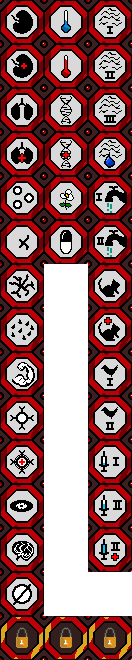
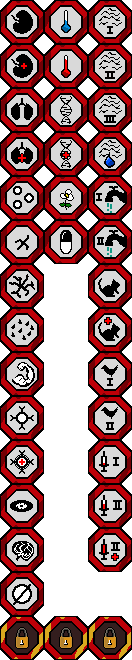
infos menu

diff --git a/src/display_engine.c b/src/display_engine.c
@@ -4,7 +4,6 @@
 #include "mutation_engine.h"
 #include "display_engine.h"
 
-
 void display_background(const int background)
 {
     /**
@@ -13,11 +12,11 @@ void display_background(const int background)
      * 3 - info menu
      * 4 - grid
      * 5 - display message
-     * 6 - upgrade menu
      **/
 
     extern const bopti_image_t img_map;
     extern const bopti_image_t img_message;
+    extern const bopti_image_t img_infos;
     extern const bopti_image_t img_grid;
 
     switch(background) {
@@ -27,14 +26,13 @@ void display_background(const int background)
         case 2:
             break;
         case 3:
+            dimage(0, 0, &img_infos);
             break;
         case 4:
             dimage(0, 0, &img_grid);
             break;
         case 5:
             dimage(0, 0, &img_message);
-            break;
-        case 6:
             break;
     }
 }
@@ -89,7 +87,7 @@ void display_foreground(const int background, const struct game *current_game, c
 
             break;
 
-        case 3:
+        case 2:
             drect(mutation_menu + 31 * (mutation_menu - 1), 0, mutation_menu + 31 * (mutation_menu) - 1, 7, C_INVERT);
 
             dprint(102, 37, C_BLACK, "%d", current_game->dna);
@@ -121,7 +119,18 @@ void display_mutation(const int table[4][8], const struct cursor c, const int mu
 
     dclear(C_WHITE);
     display_background(4);
-    dprint(106,14,C_WHITE,"test menu");
+    switch(mutation_menu) {
+        case 1:
+            dprint(138,14,C_WHITE, "SYMPTOMES");
+            break;
+        case 2:
+            dprint(138,14,C_WHITE, "CAPACITES");
+            break;
+        case 3:
+            dprint(117,14,C_WHITE, "TRANSMISSION");
+            break;
+    }
+    
     for (int i = 0 ; i < 4 ; i++)
     {
         for (int j = 0 ; j < 8; j++)
@@ -146,17 +155,23 @@ void display_mutation_buy(const struct cursor c, const int mutation_menu, const 
     dclear(C_WHITE);
     
     display_background(3);
-    dsubimage(3, 21, &img_mutations, 44 * (mutation_menu - 1), 44 * (id - 1), 44, 44, DIMAGE_NONE);
+    dsubimage(28, 91, &img_mutations, 44 * (mutation_menu - 1), 44 * (id - 1), 44, 44, DIMAGE_NONE);
 
-    dprint(47, 25, C_BLACK, mutation_data->name);
-    if (!current_game->mutations_bought[mutation_menu - 1][id - 1]) dprint(81, 33, C_BLACK, "%d", mutation_data->dna);
-    else dprint(81, 33, C_BLACK, "ACHETEE");
-    dprint(81, 41, C_BLACK, "%d (%d)", mutation_data->contagion, mutation_data->contagion - mutation_sel->contagion);
-    dprint(81, 49, C_BLACK, "%d (%d)", mutation_data->severity, mutation_data->severity - mutation_sel->severity);
-    dprint(81, 57, C_BLACK, "%d (%d)", mutation_data->lethality, mutation_data->lethality - mutation_sel->lethality);
+    dprint(105, 85, C_BLACK, "NOM : %s", mutation_data->name);
+    if (!current_game->mutations_bought[mutation_menu - 1][id - 1]) dprint(150, 180, C_RGB(123, 8, 8), "COUT ADN : %d", mutation_data->dna);
+    else dprint(195, 180, C_RGB(123, 8, 8), "ACHETEE");
+    dprint(105, 105, C_BLACK, "CONTAGION : %d (%d)", mutation_data->contagion, mutation_data->contagion - mutation_sel->contagion);
+    dprint(105, 125, C_BLACK, "SEVERITE  : %d (%d)", mutation_data->severity, mutation_data->severity - mutation_sel->severity);
+    dprint(105, 145, C_BLACK, "LETALITE  : %d (%d)", mutation_data->lethality, mutation_data->lethality - mutation_sel->lethality);
 
-    if (button_selected) drect(81, 2, 123, 8, C_INVERT);
-    else drect(81, 12, 123, 18, C_INVERT);
+    if (button_selected) {
+        drect(294, 8, 298, 26, C_WHITE);
+        drect(294, 30, 391, 26, C_WHITE);
+    }
+    else {
+        drect(294, 36, 298, 51, C_WHITE);
+        drect(294, 55, 391, 51, C_WHITE);
+    }
 
     dupdate();
 }
@@ -170,7 +185,7 @@ void display_mutation_description(const char *name, const char *description, con
 
     dclear(C_WHITE);
 
-    display_background(6);
+    display_background(3);
     dsubimage(3, 21, &img_mutations, 44 * (mutation_menu - 1), 44 * (id - 1), 44, 44, DIMAGE_NONE);
     dprint(47, 25, C_BLACK, name);
     
@@ -197,13 +212,13 @@ void display_message(char *msg)
     display_background(5);
     for (int i = 0; i < 5; i ++)
     {
-        dtext_opt(150, 6 * i + 4, C_BLACK, C_WHITE, 0, 0, msg + decalage, 11);
+        dtext_opt(190, 20 * i + 30, C_BLACK, C_WHITE, 0, 0, msg + decalage, 13);
         
         int offset = 0;
         while (msg[decalage + offset] != '\0') offset += 1;
 
         if (!offset) break;
-        else if (offset > 11) decalage += 11;
+        else if (offset > 13) decalage += 13;
         else decalage += offset;
     }
     dupdate();

diff --git a/src/main.c b/src/main.c
@@ -32,7 +32,6 @@ int main_loop(struct game *current_game);
 
 int main(void)
 {
-
     extern font_t font_plague;
     dfont(&font_plague);
 
